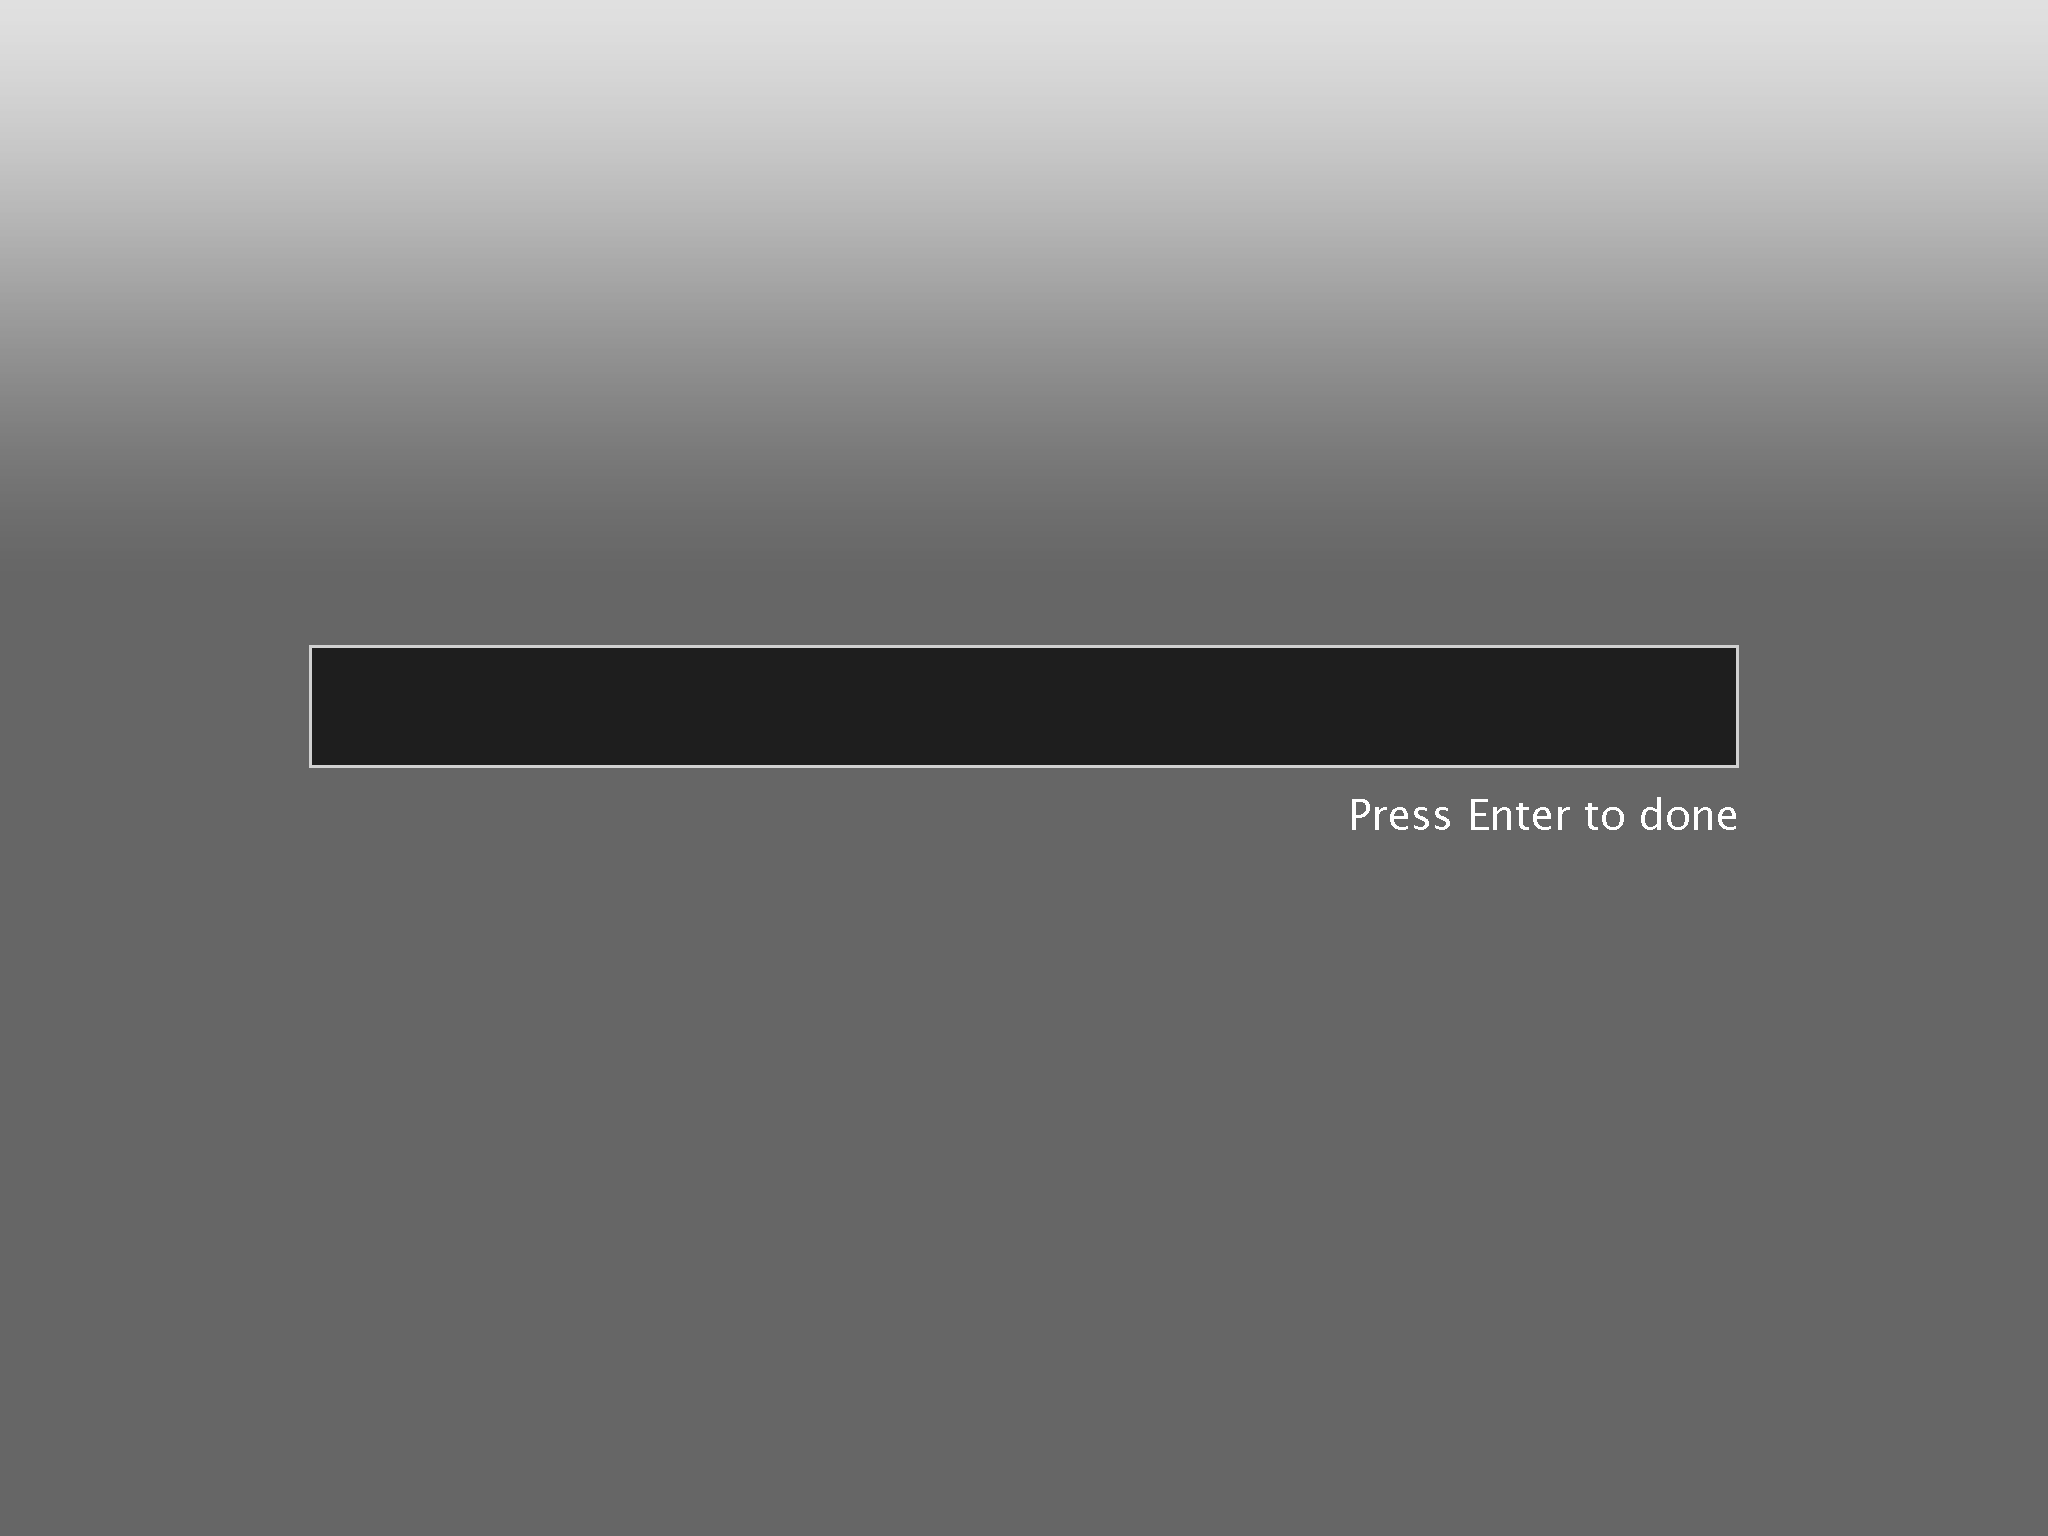
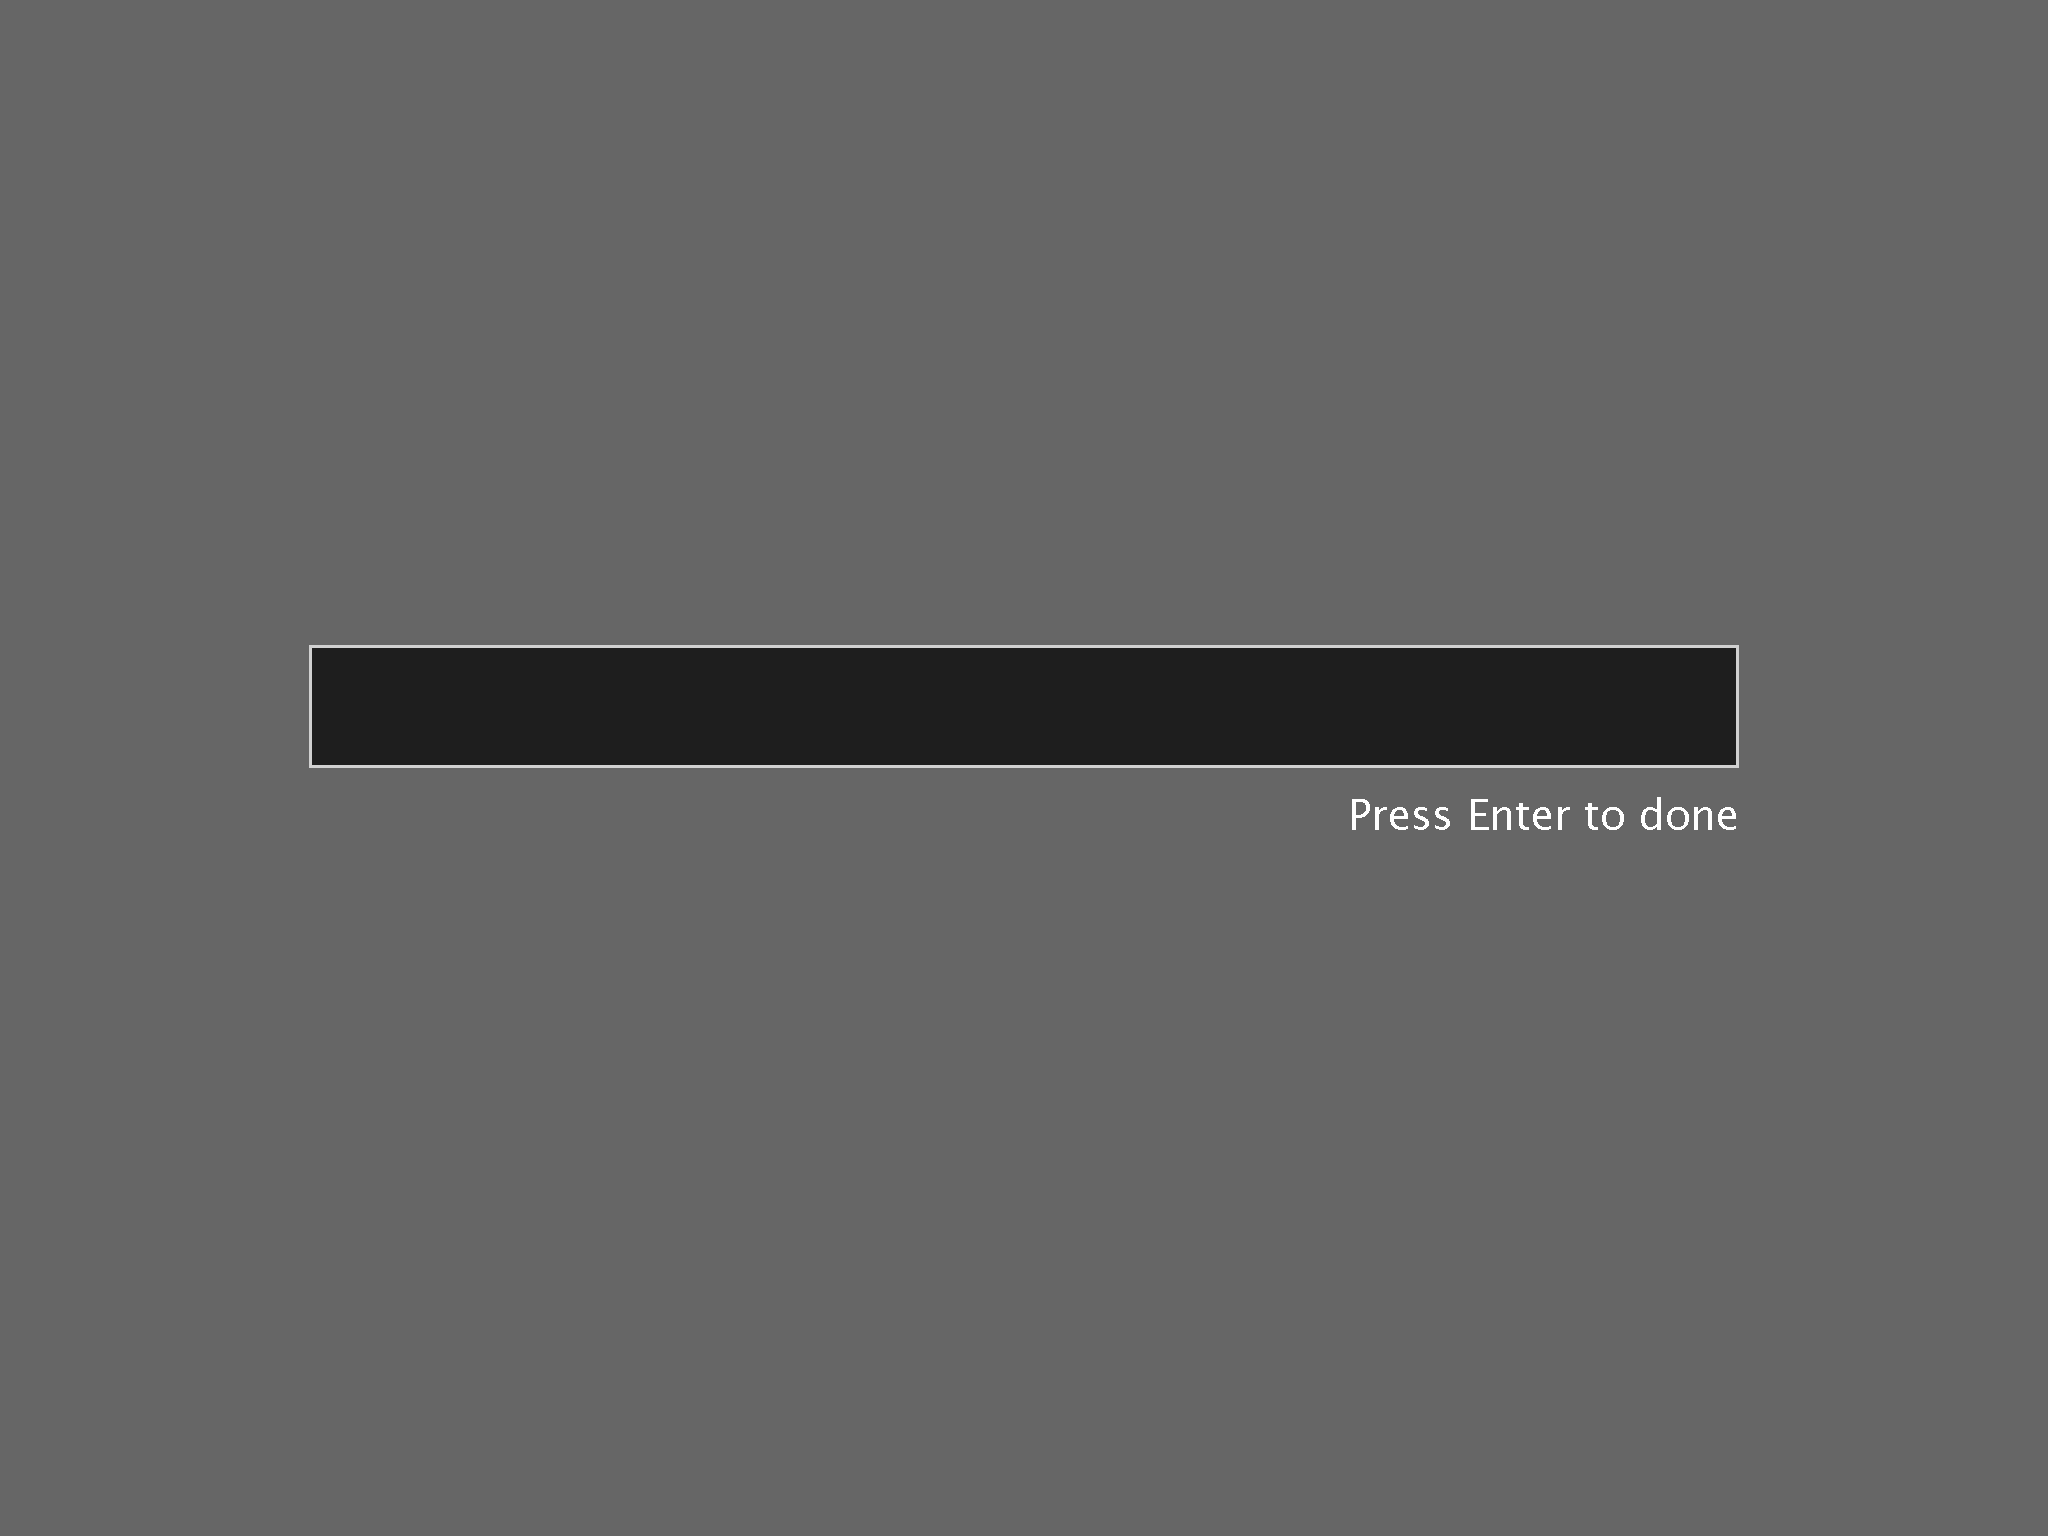
Loading screen

Changed region(s): [[0.0, 0.0, 1.0, 0.2812]]

diff --git a/cocos2d/core/CCLoader.js b/cocos2d/core/CCLoader.js
@@ -420,7 +420,8 @@ cc.LoaderScene = cc.Scene.extend(/** @lends cc.LoaderScene# */{
 
         //logo
         var logoWidth = 225;
-        var logoHeight = 292;
+        var logoHeight = 584;
+        var gameScale = 0.5;
         var centerPos = cc.p(this._winSize.width / 2, this._winSize.height / 2);
 
         this._logoTexture = new Image();
@@ -430,19 +431,29 @@ cc.LoaderScene = cc.Scene.extend(/** @lends cc.LoaderScene# */{
             this.removeEventListener('load', arguments.callee, false);
         });
[1 lines of base64/hex data omitted]
-        this._logoTexture.src = "images/cocos.png";
-        this._logoTexture.width = logoWidth;
-        this._logoTexture.height = logoHeight;
-
-        // bg
-        this._bgLayer = cc.LayerColor.create(cc.c4(0, 0, 0, 255));
+        this._logoTexture.src = "images/loadingBG.png";
+        this._logoTexture.width = 1025;
+        this._logoTexture.height = 768;        // bg
+        this._bgLayer = cc.LayerColor.create(cc.c4(230, 230, 230, 255));
         this._bgLayer.setPosition(0, 0);
         this.addChild(this._bgLayer, 0);
+        //loading
+        this._loadingGauge = new ImageShow( "loadingGauge.png" );
+        this._loadingGauge.setScaleX( 0 );
+        this._loadingGauge.setAnchorPoint( 0,0.5 );
+        this._loadingGauge.setPosition(cc.pAdd(centerPos, cc.p(-this._logoTexture.width/2, -logoHeight*gameScale / 2 - 10)));
+        this._bgLayer.addChild(this._loadingGauge,2);
+
+        this._loadingLogo = new ImageShow( "loading.png" );
+        this._loadingLogo.setScale( gameScale );
+        this._loadingLogo.setPosition(cc.pAdd(centerPos, cc.p(0,100)));
+        this._bgLayer.addChild(this._loadingLogo,12);
+
 
         //loading percent
-        this._label = cc.LabelTTF.create("Loading... 0%", "Arial", 14);
-        this._label.setColor(cc.c3(180, 180, 180));
-        this._label.setPosition(cc.pAdd(centerPos, cc.p(0, -logoHeight / 2 - 10)));
+        this._label = cc.LabelTTF.create("0%", "Arial", 14);
+        this._label.setColor(cc.c3(100, 100, 100));
+        this._label.setPosition(cc.pAdd(centerPos, cc.p(0, -logoHeight*gameScale / 2 - 12)));
         this._bgLayer.addChild(this._label, 10);
     },
 
@@ -463,7 +474,7 @@ cc.LoaderScene = cc.Scene.extend(/** @lends cc.LoaderScene# */{
 
     onExit: function () {
         cc.Node.prototype.onExit.call(this);
-        var tmpStr = "Loading... 0%";
+        var tmpStr = "0%";
         this._label.setString(tmpStr);
     },
 
@@ -486,8 +497,11 @@ cc.LoaderScene = cc.Scene.extend(/** @lends cc.LoaderScene# */{
     },
 
     _updatePercent: function () {
+        this._loadingLogo.setRotation( this._loadingLogo.getRotation()-5 );
         var percent = cc.Loader.getInstance().getPercentage();
-        var tmpStr = "Loading... " + percent + "%";
+        var tmpStr = percent + "%";
+
+        this._loadingGauge.setScaleX( percent/100 );
         this._label.setString(tmpStr);
 
         if (percent >= 100)
